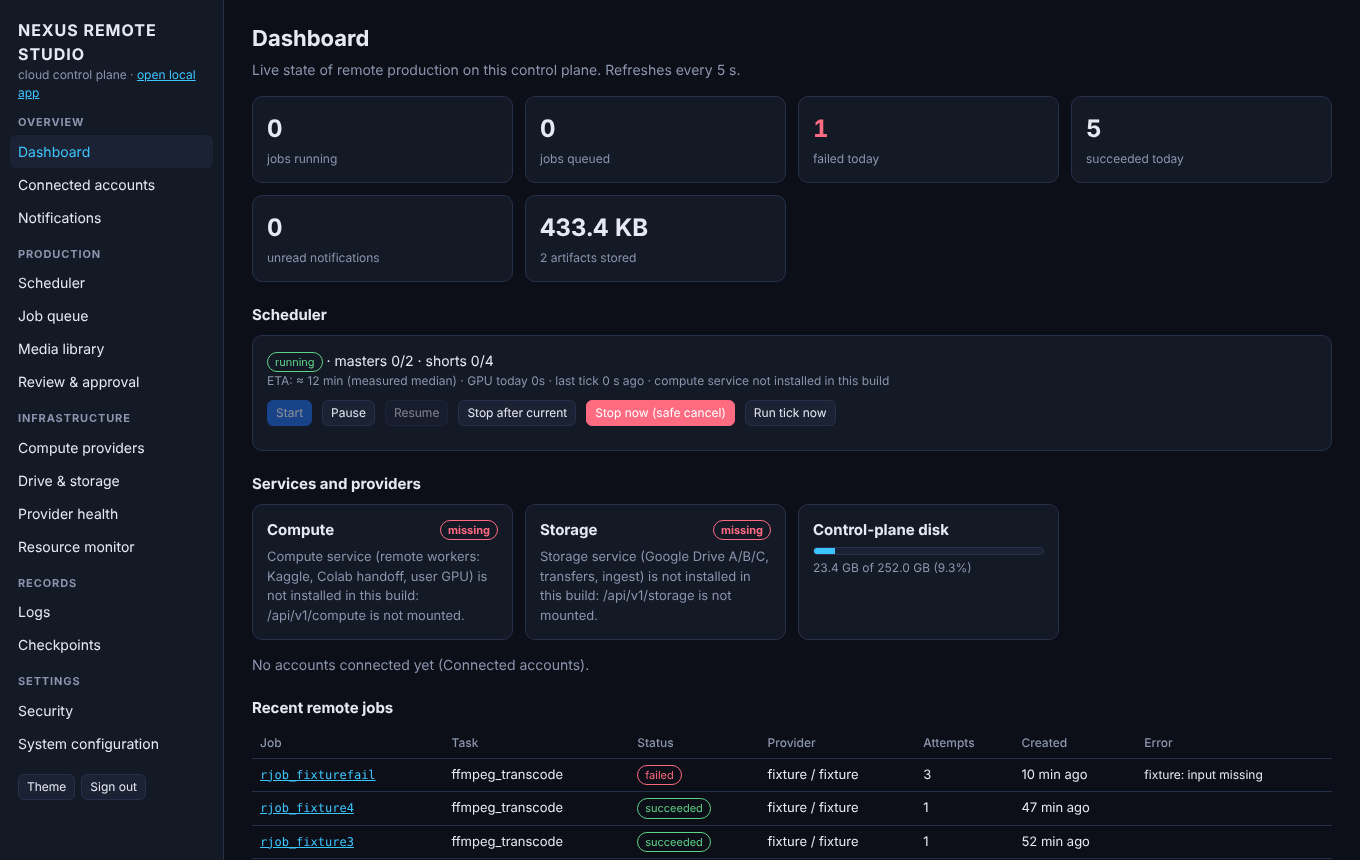
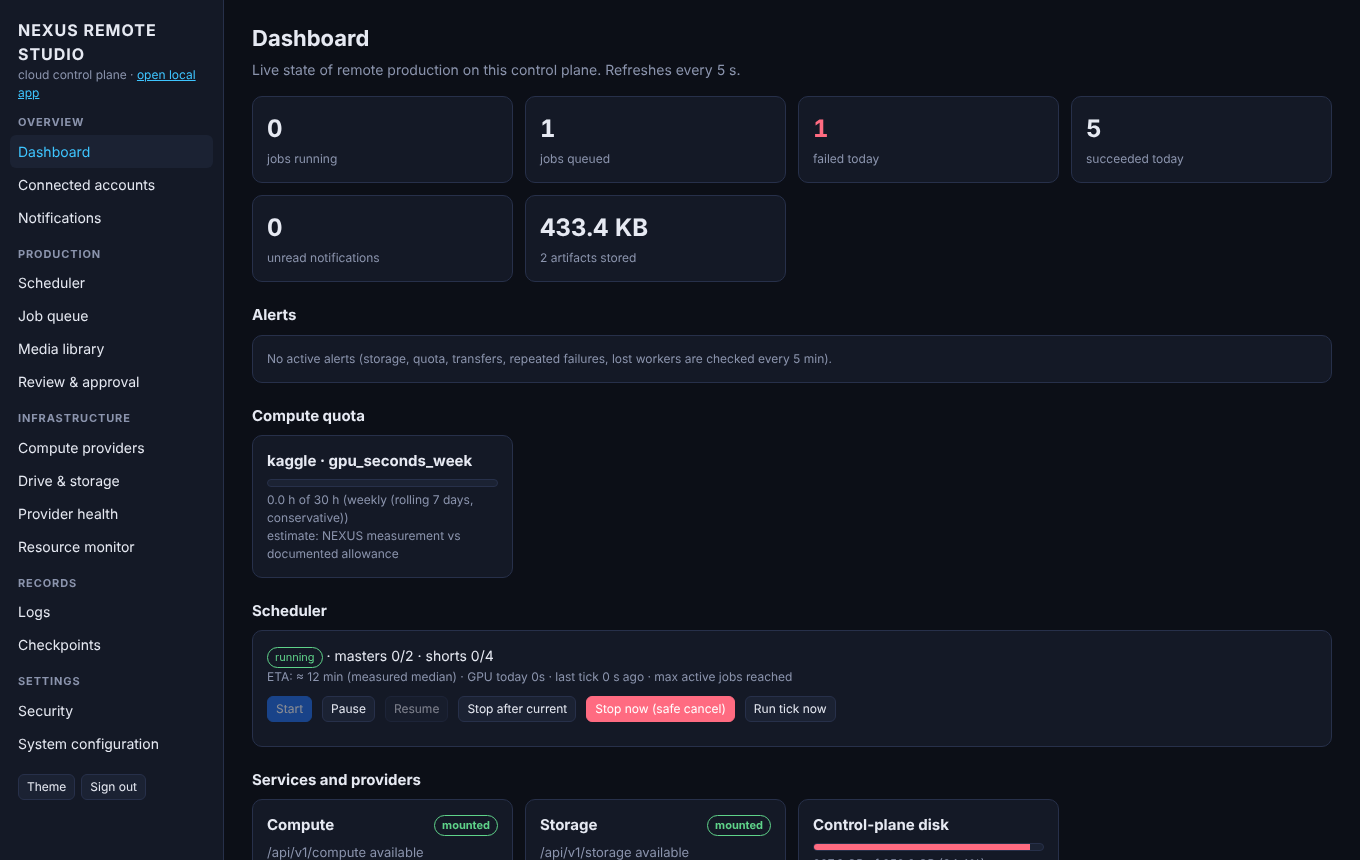
Studio alerts + GPU quota panels, resolved state alerts clear, disk figure = total-free; Account 3 handoff; acceptance A-K with capability classes
Claude-Session: https://claude.ai/code/session_01XFXUJS8XCrJyczxpPSo5M5

diff --git a/nexus/ui/studio.html b/nexus/ui/studio.html
@@ -132,9 +132,12 @@ function schedLine(s){const t=s.today||{};return `${st(s.status)}${s.pause_reaso
 function etaText(e){if(!e)return"-";if(e.remaining_s===0)return"today's target complete";if(e.remaining_s!=null)return"≈ "+dur(e.remaining_s)+" (measured median)";return e.note||"no history yet"}
 
 PAGES.dash=async()=>{const s=await api("/api/v1/studio/summary");unread=s.notifications_unread;const sc=s.scheduler;
+  const al=await api("/api/v1/alerts").catch(()=>({active:[]}));const qs=s.services.compute?await api("/api/v1/compute/quota").catch(()=>[]):[];
   return `<h2 class="page">Dashboard</h2><p class="lead">Live state of remote production on this control plane. Refreshes every 5 s.</p>
   <div class="grid">${statCard(s.jobs.running,"jobs running")}${statCard(s.jobs.queued,"jobs queued")}${statCard(s.jobs.failed_today,"failed today",s.jobs.failed_today?"badv":"")}
   ${statCard(s.jobs.succeeded_today,"succeeded today")}${statCard(s.notifications_unread,"unread notifications")}${statCard(fmtB(s.storage.artifact_bytes),s.storage.artifacts+" artifacts stored")}</div>
+  <h3 class="sec">Alerts</h3>${(al.active||[]).length?`<div class="card">${al.active.map(a=>`<div>${tag(a.key.split(":")[0],a.key.endsWith(":error")||a.key.startsWith("fails")||a.key.startsWith("transfer")?"bad":"warn")} ${esc(a.title)} <span class="small mute">${ago(a.last)}</span></div>`).join("")}</div>`:`<div class="card small mute">No active alerts (storage, quota, transfers, repeated failures, lost workers are checked every 5 min).</div>`}
+  ${qs.length?`<h3 class="sec">Compute quota</h3><div class="grid">${qs.map(q=>`<div class="card"><h3>${esc(q.provider)} · ${esc(q.resource)}</h3>${q.limit?`<div class="bar"><i class="${q.used/q.limit>0.9?"bad":q.used/q.limit>0.8?"warn":""}" style="width:${Math.min(100,100*(q.used||0)/q.limit)}%"></i></div><div class="small mute">${q.resource.includes("seconds")?((q.used||0)/3600).toFixed(1)+" h of "+(q.limit/3600).toFixed(0)+" h":q.resource.includes("bytes")?fmtB(q.used||0)+" of "+fmtB(q.limit):Math.round(q.used||0)+" of "+Math.round(q.limit)}${q.period?" ("+esc(q.period)+")":""}${q.exhausted?" "+tag("exhausted","bad"):""}</div>`:'<p class="small mute">no known limit</p>'}<div class="small mute">${q.source==="provider_api"?"provider-reported":"estimate: NEXUS measurement vs documented allowance"}</div></div>`).join("")}</div>`:""}
   <h3 class="sec">Scheduler</h3><div class="card"><div>${schedLine(sc)}</div><div class="small mute">ETA: ${esc(etaText(sc.eta))} · GPU today ${sc.gpu_seconds_today}s · last tick ${ago(sc.last_tick)}${sc.blocked?" · "+esc(sc.blocked):""}</div>
   ${sc.last_error&&sc.last_error!==sc.blocked?`<div class="note bad">${esc(sc.last_error)}</div>`:""}<div class="row">${schedButtons(sc.status)}</div></div>
   <h3 class="sec">Services and providers</h3><div class="grid">

diff --git a/nexus/cloud/alerts.py b/nexus/cloud/alerts.py
@@ -20,7 +20,12 @@ REPEAT_S = 6 * 3600
 FAILS_IN_DAY = 3
 
 
+STATE_PREFIXES = ("storage:", "quota:", "reauth:")  # conditions that can clear; events (transfer/fails/lost) just expire
+_seen: set[str] = set()
+
+
 def _once(key: str, level: str, title: str, body: str, now: float) -> dict | None:
+    _seen.add(key)
     db.execute("CREATE TABLE IF NOT EXISTS alert_state(key TEXT PRIMARY KEY, last REAL, title TEXT)")
     r = db.query("SELECT last FROM alert_state WHERE key=?", (key,))
     if r and now - (r[0]["last"] or 0) < REPEAT_S:
@@ -46,7 +51,8 @@ def _storage(now: float) -> list[dict]:
             continue
         try:  # fresh figure from the provider itself (Drive: about.storageQuota; local: real disk space)
             q = artifacts.provider(cid).quota().model_dump()
-        except Exception:  # noqa: BLE001
+        except Exception:  # noqa: BLE001 - unknown now: keep any existing alert for this connection
+            _seen.update(r["key"] for r in db.query("SELECT key FROM alert_state WHERE key LIKE ?", (f"storage:{cid}:%",)))
             continue
         used, limit = q.get("used"), q.get("limit")
         if used is None or not limit:
@@ -83,11 +89,8 @@ def _jobs(now: float) -> list[dict]:
 
 
 def _quota(now: float) -> list[dict]:
-    try:
-        from .compute import dispatcher
-        qs = dispatcher.quota_status()
-    except Exception:  # noqa: BLE001
-        return []
+    from .compute import dispatcher  # an error here propagates: check() then keeps existing quota alerts
+    qs = dispatcher.quota_status()
     out = []
     for q in qs:
         q = q.model_dump() if hasattr(q, "model_dump") else q
@@ -101,12 +104,19 @@ def _quota(now: float) -> list[dict]:
 
 def check(now: float | None = None) -> list[dict]:
     now = now or time.time()
-    fired = []
-    for fn in (_storage, _transfers, _jobs, _quota):
+    fired, ok = [], set()
+    _seen.clear()
+    for fn, prefixes in ((_storage, ("storage:", "reauth:")), (_transfers, ()), (_jobs, ()), (_quota, ("quota:",))):
         try:
             fired += [a for a in fn(now) if a]
+            ok.update(prefixes)
         except Exception:  # noqa: BLE001 - one broken check must not stop the others
             continue
+    # a state alert whose check ran cleanly and no longer holds is resolved: drop it so the dashboard shows only what is true now
+    for r in db.query("SELECT key FROM alert_state"):
+        k = r["key"]
+        if k.startswith(tuple(ok)) and k not in _seen:
+            db.execute("DELETE FROM alert_state WHERE key=?", (k,))
     return fired
 
 

diff --git a/tests/fast/test_cloud_security.py b/tests/fast/test_cloud_security.py
@@ -485,3 +485,27 @@ def test_alerts_fire_once_per_condition_and_label_estimates(home, monkeypatch):
     assert alerts.check(now=1_000_100.0) == []                       # same condition: no second notification
     assert any(n["title"].startswith("kaggle") for n in events.notifications())
     assert alerts.check(now=1_000_000.0 + alerts.REPEAT_S + 1)        # repeats after the quiet period while it lasts
+
+
+def test_resolved_state_alert_leaves_the_dashboard_but_kept_when_unknown(home, monkeypatch):
+    """A storage/quota alert that no longer holds disappears from `active()` on the next clean check; a check that
+    cannot read the figure (provider error) keeps the existing alert instead of declaring it resolved."""
+    from nexus.cloud import alerts
+    from nexus.contracts import QuotaStatus
+    import nexus.cloud.compute.dispatcher as d
+    hot = QuotaStatus(provider="kaggle", connection_id="kaggle_primary", resource="gpu_seconds_week", limit=1000, used=900,
+                      remaining=100, source="measured")
+    monkeypatch.setattr(d, "quota_status", lambda: [hot])
+    alerts.check(now=2_000_000.0)
+    assert any(a["key"].startswith("quota:kaggle") for a in alerts.active(now=2_000_001.0))
+
+    def broken():
+        raise RuntimeError("provider unreachable")
+    monkeypatch.setattr(d, "quota_status", broken)
+    alerts.check(now=2_000_010.0)
+    assert any(a["key"].startswith("quota:kaggle") for a in alerts.active(now=2_000_011.0))
+
+    cool = hot.model_copy(update={"used": 100, "remaining": 900})
+    monkeypatch.setattr(d, "quota_status", lambda: [cool])
+    alerts.check(now=2_000_020.0)
+    assert not any(a["key"].startswith("quota:kaggle") for a in alerts.active(now=2_000_021.0))

diff --git a/nexus/cloud/routes_studio.py b/nexus/cloud/routes_studio.py
@@ -113,7 +113,7 @@ def summary():
                      "succeeded_today": sum(v for k, v in today.items() if k in scheduler.TERMINAL_OK), "recent": recent},
             "providers": _connections(),
             "storage": {"artifacts": art["n"], "artifact_bytes": art["b"], "transfers": xfer,
-                        "disk": {"total": du.total, "used": du.used, "free": du.free, "path": "NEXUS_HOME"}},
+                        "disk": {"total": du.total, "used": du.total - du.free, "free": du.free, "path": "NEXUS_HOME"}},  # used = total-free: what can still be written
             "notifications_unread": _rows("SELECT COUNT(*) n FROM notifications WHERE read = 0")[0]["n"],
             "scheduler": snap,
             "services": {"compute": "routes_compute" not in missing, "storage": "routes_storage" not in missing,
@@ -173,7 +173,7 @@ def resources():
         remote.append({**r, "accelerator": res.get("accelerator"), "duration_s": res.get("duration_s"), "metrics": res.get("metrics") or {}})
     return {"host": {"cpu_percent": psutil.cpu_percent(interval=0.2), "cpus": psutil.cpu_count(), "load_avg": load,
                      "ram": {"total": vm.total, "used": vm.total - vm.available, "percent": vm.percent},
-                     "disk": {"total": du.total, "used": du.used, "free": du.free, "percent": du.percent},
+                     "disk": {"total": du.total, "used": du.total - du.free, "free": du.free, "percent": round(100 * (du.total - du.free) / du.total, 1)},
                      "process_rss": proc.memory_info().rss, "uptime_s": round(time.time() - psutil.boot_time())},
             "remote_workers": remote, "measured_at": time.time()}
 

diff --git a/docs/ACCOUNT1_HANDOFF_TO_ACCOUNT3.md b/docs/ACCOUNT1_HANDOFF_TO_ACCOUNT3.md
@@ -1,0 +1,129 @@
+# Account 1 → Account 3: integration handoff (research, translation, localization, publishing, analytics, AI providers)
+
+Read `docs/ACCOUNT1_HANDOFF_TO_ACCOUNT2.md` first: it holds the shared parts (contracts list, API routes, env vars,
+test commands, file ownership). This file covers what is specific to Account 3, with example payloads, error shapes
+and checkpoint rules. The same examples apply to Account 2 (swap the task names).
+
+**Branch:** `work/account-1-cloud-platform` (PR #4, draft, based on PR #3; nothing merged into `main`). Start from its
+head (`NEXUS_STATE.json` → `git.head`).
+
+## 1. What Account 1 gives you
+| You need | Use | Status |
+|---|---|---|
+| Run a task on a GPU / remote worker | `ProductionJobManifest/v1` → dispatcher | real-verified (Kaggle T4) |
+| Read a source file stored in Drive without downloading to the owner's PC | `inputs: [artifact_id]`; the control plane fetches it into its cache, large inputs travel as a private Kaggle dataset | real-verified (Demo E, 49.9 MB) |
+| Write results to a chosen Drive account | `output_destination: "drive_b"` or the storage rules by kind | real-verified (Demo E) |
+| Declare an AI provider (translation, TTS, LLM...) | `AIProviderCapability/v1` | contract only: Account 3 implements the providers |
+| Events / notifications | `nexus.cloud.events.emit(...)` / `notify(...)` | real |
+| Secrets (API keys for your providers) | `nexus.vault.put/get` (encrypted, outside Git) | real |
+
+## 2. Example payloads
+
+### Submit (POST `/api/v1/compute/jobs`, or `dispatcher.submit(ProductionJobManifest(...))`)
+```json
+{
+  "contract": "ProductionJobManifest/v1",
+  "task": "translate_subtitles",
+  "owner_account": "account3",
+  "project_id": "proj_demo",
+  "params": {"target_lang": "ar", "glossary": "default"},
+  "inputs": ["art_3f2a9c0d1e77"],
+  "output_destination": "drive_b",
+  "requires": {"gpu": false, "providers": ["local", "kaggle"]},
+  "priority": 4,
+  "max_runtime_s": 1800,
+  "max_retries": 2,
+  "idempotency_key": "proj_demo:translate:art_3f2a9c0d1e77:ar"
+}
+```
+Answer (`200`): `{"job_id": "rjob_...", "status": "queued", "created": true}`. The same `idempotency_key`
+returns the existing job (`created: false`) and never starts a second run.
+
+### Result (GET `/api/v1/compute/jobs/{id}` → `result`)
+```json
+{
+  "contract": "WorkerExecutionResult/v1",
+  "job_id": "rjob_be153ebe2736",
+  "provider": "kaggle", "connection_id": "kaggle_primary",
+  "status": "succeeded",
+  "duration_s": 312.4, "accelerator": "Tesla T4",
+  "metrics": {"encode_s": 72.6, "realtime_factor": 16.0},
+  "artifacts": [{"contract": "ArtifactManifest/v1", "artifact_id": "art_...", "kind": "master", "name": "output.mp4",
+                 "mime": "video/mp4", "size": 144587842, "sha256": "…", "produced_by_job": "rjob_be153ebe2736",
+                 "locations": [{"connection_id": "drive_b", "ref": "…", "verified": true}]}],
+  "log_tail": "(redacted, last lines)",
+  "error": null,
+  "checkpoint": null
+}
+```
+When `output_destination` is set, `data.delivery` in the job record lists each artifact copied there, or the reason
+it failed (a failed delivery never deletes the local copy).
+
+### Declare an AI provider (Account 3)
+```json
+{
+  "contract": "AIProviderCapability/v1",
+  "provider": "local-whisper", "connection_id": "local",
+  "tasks": ["transcribe", "translate_subtitles"],
+  "models": ["whisper-small"],
+  "local": true,
+  "commercial_use": "unverified",
+  "quotas": []
+}
+```
+Rules: `commercial_use` stays `unverified` until you have checked the licence; a cloud provider's quota uses
+`QuotaStatus/v1` with `source` `provider_api` only if the provider reports the number, otherwise `measured`/`documented`
+(the UI labels these as estimates).
+
+## 3. Error structures
+| Where | Shape | Meaning |
+|---|---|---|
+| HTTP API | `{"detail": "<message>"}` with 401/403 (not owner, missing CSRF), 404 (unknown id), 409 (conflict, e.g. provider not ready), 422 (manifest invalid: extra field, bad priority), 502 (provider error, message redacted) | FastAPI standard |
+| Job record | `status` ∈ `queued`, `running`, `succeeded`, `failed`, `cancelled`, `quota_exhausted`; `error` holds the latest reason (also while waiting, e.g. `waiting for a provider: kaggle: [quota_exhausted] ...`) | the job is never silently dropped |
+| Worker result | `WorkerExecutionResult.status` ∈ `succeeded`, `failed`, `cancelled`, `lost`, `quota_exhausted`; `error` text; `log_tail` redacted | `lost` = no result from the worker: re-dispatched from the last checkpoint |
+| Events | `ProductionEvent/v1` types `job.failed`, `worker.lost`, `storage.failed`, `quota.exhausted` ... with `data` | stream: `GET /api/v1/events?job_id=` |
+
+Retries: a failed attempt is retried up to `max_retries`; `quota_exhausted` does not consume retries, it waits. Paid
+compute is never chosen automatically; a job whose `requires.providers` lists only unavailable providers waits with a
+reason (safe production mode).
+
+## 4. Checkpoint rules (worker tasks)
+1. Call `ctx.checkpoint(step, state)` after every expensive, deterministic step; `state` must be JSON and small
+   (guideline: a few KiB; not enforced): store paths/indices, not data. Large intermediates go out as `ctx.artifact(path, kind="checkpoint")`.
+2. On re-dispatch the bundle carries the last `JobCheckpoint/v1`; the task reads `ctx.resume_state` (its `state`) and
+   `ctx.last_checkpoint` (`step`, `seq`, `artifacts`), and skips work already done (Demo D: chunks 1-2 skipped, 3-4 run).
+3. `seq` only grows; never rewrite a past checkpoint. A task without checkpoints restarts from zero, so register it
+   with `resumable=False`.
+4. Steps must be idempotent: re-running the step after the last checkpoint must give the same output.
+5. Outputs are trusted only after the control plane re-computes their SHA-256 (one mismatch fails the attempt and nothing
+   from it is recorded).
+
+## 5. Publishing and ingestion (Account 3 specific)
+- Publishing to platforms stays **manual approval** until the owner authorises each platform's OAuth; Account 1 has
+  no platform credentials and must not get them through chat.
+- Media ingestion accepts direct https file URLs with declared rights, or uploads; platform page URLs (YouTube, TikTok,
+  Instagram, Facebook, X, Vimeo) are refused by design. Use the platform's creator export for the owner's own videos.
+
+## 6. Capability classification (Account 1, at handoff)
+Legend: **RV** real-verified · **MO** mocks/fake-server only · **P** partial · **BU** blocked by user · **BP** blocked by
+provider · **NI** not implemented.
+
+| Capability | Class | Note |
+|---|---|---|
+| Kaggle GPU submit/status/output, checksums, idempotency | RV | 2× T4, NVENC |
+| Worker-loss + control-plane-crash resume from checkpoint | RV | Demo D |
+| Large input via private Kaggle dataset | RV | Demo E |
+| Drive device flow, identity, encrypted refresh token, refresh | RV | 3 accounts |
+| Drive A/B/C isolation | RV | B cannot see A's file |
+| Drive resumable upload with interruption + resume, sha256, download, move, delete | RV | |
+| Drive disconnect + token revocation | MO | real revoke forces the owner to reconnect; tested on the fake server |
+| Drive backup/restore of NEXUS state | P | `nexus/backup.py` backup/restore + drill tested locally; not yet run against real Drive |
+| Storage router (rules, failover, replication, reserve) | P | logic tested; real failover between Drives not forced |
+| Storage + quota alerts, resolved alerts clear | RV | live on dev host |
+| Scheduler + safe production mode | RV | real Kaggle jobs |
+| Real Kaggle quota-exhaustion message | BP | detection pattern-based, not yet seen |
+| Owner GPU PC / Colab pull worker | P | API tested; no real remote machine attached (BU) |
+| Permanent HTTPS host | BU | recommendation: Tailscale Funnel on an owner machine |
+| OAuth consent screen in production mode | BU | Testing mode: refresh tokens expire after 7 days |
+| AI providers (translation, TTS, LLM) | NI | Account 3 |
+| Platform publishing | NI | Account 3, manual approval |

diff --git a/docs/ACCOUNT1_ACCEPTANCE_RESULTS.md b/docs/ACCOUNT1_ACCEPTANCE_RESULTS.md
@@ -1,20 +1,24 @@
 # Account 1 acceptance results (2026-11-12)
 
-Status per demo: **Done** (run for real, evidence linked) · **Done (local stand-in)** (real run, but a part that needs the
-owner was replaced by a local equivalent) · **Blocked on owner** (built and tested, cannot finish without the owner).
+Classes: **RV** real-verified · **MO** mocks/fake-server only · **P** partial · **BU** blocked by user · **BP** blocked by
+provider · **NI** not implemented. Finalization mission (Parts 1-12), demos A-K.
 
-| Demo | Status | Evidence |
-|---|---|---|
-| A. Browser startup from a clean environment | **Done** (dev host). A fresh NEXUS_HOME, the real app under uvicorn, Chromium: login, all 15 Studio sections, scheduler controls, mobile width; no page errors. The owner's PC installs nothing. A *permanent* host is not chosen yet (owner decision). | `tests/e2e/test_studio_browser.py`, `docs/results/account1/studio_*.png`, `studio_e2e.json` |
-| B. Three Drive connections | **Blocked on owner.** OAuth web + device flows, 3 isolated connections, refresh rotation, revocation, quota, folders, resumable upload with crash recovery and checksum are implemented and tested over real HTTP against a protocol-faithful fake Google server (95 tests). Real Google needs the owner's OAuth client and consent in a browser. | `tests/fast/test_cloud_storage.py`, `docs/results/account1/storage_resume.json`, `tests/live/test_drive_live.py` (owner-gated) |
-| C. Kaggle (one account), real GPU task, verified artifact | **Done.** Private kernels via the official CLI; 2× Tesla T4 (15 GB each), 31 GB RAM; probe 23.9 TFLOPS fp16; NVENC transcode of a 10 s clip to 1280×720 in 1.8 s; every artifact's SHA-256 re-computed and matched. Also submitted through the running app's HTTP API with the background poller; idempotent re-submission returns the same job. | `kaggle_probe.json`, `kaggle_transcode.json`, `lead_demos.json` (`demo_C_api_probe`) |
-| D. Remote job: progress, logs, interrupt, resume from checkpoint | **Done.** (1) Worker interruption: chunked_transcode stopped after 2 of 4 chunks, re-dispatched with checkpoint 2, finished only chunks 3-4. (2) Control-plane crash: API process SIGKILLed 7 s after dispatching a 6-chunk NVENC job on a NASA clip, down 25 s; after restart the dispatcher re-attached to the same Kaggle run (attempt 1, no duplicate GPU run) and the job succeeded; output 1280×720, 242.4 s, checksum matched locally. | `kaggle_resume.json`, `lead_demos.json` (`demo_D_control_plane_crash`) |
-| E. Cloud media flow (Drive → remote → Drive, no full-res download to the PC) | **Done (local stand-in) / Blocked on owner for Drive.** Source fetched by the Kaggle worker directly from an authorised https URL (NASA), processed on the GPU, result stored server-side (`NEXUS_HOME/compute/artifacts`); the browser only receives thumbnails/metadata unless the owner clicks play (Range stream). The Drive source/destination legs need Demo B. | `lead_demos.json`, Studio library screenshot |
-| F. Scheduler: daily target, pause/resume, quota exhaustion | **Done.** Target 1 master + 1 short (demo plan = real Kaggle probe jobs): start (ETA from measured median), pause (no new dispatch for 100 s), simulated quota exhaustion (allowance setting below measured usage) → resume refused, paused with reason "quota", warning notification, no account switching; restore → resume → stop condition reached → stopped. | `lead_demos.json` (`demo_F_scheduler`), `tests/fast/test_scheduler.py` |
-| G. URL ingestion | **Done.** NASA public-domain clip via https: redirect followed and re-validated, ffprobe-verified (h264+aac, 242.4 s), SHA-256, provenance, stored; duplicate detected on re-import. SSRF suite with the real resolver: 34/34 refused (private IPs via public DNS names, numeric tricks, metadata hosts, platform pages). | `ingest_live.json`, `ingest_ssrf_live.json`, `tests/fast/test_ingest.py` |
+| Demo | Class | What was run | Evidence |
+|---|---|---|---|
+| A. Stable HTTPS URL for the Studio | **BU** | App runs and the browser E2E passes on the dev host; a permanent host needs the owner (recommended: owner machine + Tailscale Funnel, zero cost). Nothing deployed publicly. | `ACCOUNT1_PROVIDER_COMPARISON.md` §2.1, `tests/e2e/test_studio_browser.py` |
+| B. Real Google Drive A/B/C | **RV** (revoke: **MO**) | Device flow on three real accounts, identity, encrypted refresh tokens, forced refresh, folders, resumable upload interrupted + resumed, sha256, download, move, delete; B cannot see A's file. Real revocation not run (would force the owner to reconnect). | `storage_drive_live.json`, `storage_drive_live_isolation.json` |
+| C. Kaggle GPU, one account | **RV** | Private kernels, 2× T4, probe + NVENC transcode, checksums, idempotent re-submit. | `kaggle_probe.json`, `kaggle_transcode.json`, `lead_demos.json` |
+| D. Interrupt + resume from checkpoint | **RV** | Worker stopped after 2/4 chunks, resumed at chunk 3. | `kaggle_resume.json` |
+| E. Drive → remote GPU → Drive, no PC download | **RV** | Drive A source (49.9 MB) → private Kaggle dataset → T4 NVENC (16× realtime) → Drive B `NEXUS/OriginalMedia/`; 144,587,842 bytes, sha256 matched after re-download. Job `rjob_be153ebe2736`. | `lead_demos.json`, Studio library |
+| F. Control-plane crash recovery | **RV** | API SIGKILLed during a 6-chunk job; after restart it re-attached to the same Kaggle run (no duplicate GPU run). | `lead_demos.json` (`demo_D_control_plane_crash`) |
+| G. Scheduler daily target, pause/resume/stop | **RV** | Real probe jobs; ETA from measured median; stop condition reached. | `lead_demos.json` (`demo_F_scheduler`) |
+| H. Quota exhaustion → safe pause | **P** / **BP** | Simulated exhaustion pauses safely with reason; GPU jobs wait queued (safe production mode, attempts 0) with no account switching. A real Kaggle quota message has not been seen. | `test_scheduler.py`, `test_cloud_compute.py` |
+| I. Secure link ingestion | **RV** | Authorised https source, redirect re-validated, ffprobe, sha256, provenance; SSRF 34/34 refused; platform pages refused. | `ingest_live.json`, `ingest_ssrf_live.json` |
+| J. Browser-only operation + observability | **RV** (dev host) | Studio: jobs, storage, alerts (storage threshold, quota labelled as estimate), GPU quota bar; alerts clear when resolved. | `tests/e2e/test_studio_browser.py`, `GET /api/v1/alerts` |
+| K. CI green on the newest commit | see PR #4 checks | Linux + Windows + windows-e2e; tests never start background workers (`conftest.py`), production startup still does. | GitHub Actions on PR #4 |
 
 ## Tests
-- Fast suite (all four sub-agents integrated): **392 passed, 4 skipped** (`NEXUS_SCHEDULER_THREAD=0 pytest tests/fast`).
+- Fast suite: **399 passed, 4 skipped** (`NEXUS_SCHEDULER_THREAD=0 pytest tests/fast`), ruff clean.
 - Real browser E2E of the Studio: passed. Security recovery checks: 7/7. Secret scan (tracked files): clean.
 - Live Kaggle evidence: probe, transcode, worker-loss resume, control-plane-crash resume, scheduler run.
 
@@ -38,5 +42,6 @@ owner was replaced by a local equivalent) · **Blocked on owner** (built and tes
 | 26 | Browser end-to-end | `tests/e2e/test_studio_browser.py` |
 
 ## Not complete (stated plainly)
-Real Google Drive (B, and the Drive legs of E), a permanent public host, a real owner-GPU/Colab pull worker, and a real
-Kaggle quota-exhaustion message have not been exercised. Each needs the owner (or real quota exhaustion).
+A permanent public host (owner decision), real Drive token revocation and Drive backup/restore runs, a real owner-GPU/Colab
+pull worker, and a real Kaggle quota-exhaustion message have not been exercised. OAuth consent is still in Testing mode
+(refresh tokens expire after 7 days until the owner publishes it).

diff --git a/docs/ACCOUNT1_HANDOFF_TO_ACCOUNT2.md b/docs/ACCOUNT1_HANDOFF_TO_ACCOUNT2.md
@@ -90,15 +90,16 @@ Secrets (Kaggle token, Google OAuth client, refresh tokens, worker-token hashes)
 ## 6. Test commands
 ```bash
 python -m ruff check .
-NEXUS_SCHEDULER_THREAD=0 python -m pytest -q tests/fast          # 392 passed, 4 skipped at handoff
+NEXUS_SCHEDULER_THREAD=0 python -m pytest -q tests/fast          # 399 passed, 4 skipped at handoff
 python -m pytest -q tests/e2e/test_studio_browser.py            # real Chromium run of the Studio
 NEXUS_LIVE=1 python -m pytest -q tests/live/test_kaggle_live.py  # needs the Kaggle token in the vault (uses GPU quota)
 python scripts/release_check.py                                 # fresh clone + hygiene + lint + fast suite
 ```
 
 ## 7. Known limitations (honest)
-- Google Drive: built and tested against a protocol-faithful fake server only; real Drive needs the owner's OAuth client
-  and consent (Demo B/E). Uploads through the API are synchronous (not yet durable jobs).
+- Google Drive: real-verified on three accounts (device flow, refresh, isolation, resumable upload, Demo E). Real token
+  revocation and Drive backup/restore are tested on the fake server only. Uploads through the API are synchronous.
+  OAuth consent is in Testing mode until the owner publishes it (refresh tokens expire after 7 days).
 - Kaggle weekly GPU allowance is a documented default (30 h) the owner can override; usage is measured by NEXUS.
   Quota-error detection is pattern-based and has not yet seen a real Kaggle quota message.
 - Cancel cannot stop a running Kaggle kernel (no official CLI command); it stops polling and never starts further steps.
@@ -112,4 +113,5 @@ python scripts/release_check.py                                 # fresh clone + 
   write outputs as artifacts; set the scheduler plan to these names. Start with Wan 2.1 1.3B on the T4.
 - **Account 3:** declare AI providers with `AIProviderCapability/v1`; implement `translate`, `publish_*` tasks the same
   way; publishing must stay manual-approval until the owner authorises platform OAuth.
-- **Owner:** Google OAuth client + Drive A/B/C consent; choose a host; rotate the Kaggle token that was pasted in chat.
+- **Owner:** publish the OAuth consent screen; choose a host; rotate the Kaggle tokens that were pasted in chat; back up the vault key.
+- Account 3 specifics (payload examples, error shapes, checkpoint rules, capability classes): `docs/ACCOUNT1_HANDOFF_TO_ACCOUNT3.md`.

diff --git a/docs/ACCOUNT1_EXECUTION_REPORT.md b/docs/ACCOUNT1_EXECUTION_REPORT.md
@@ -38,5 +38,18 @@ session branches exist. Working tree clean. The new branch `work/account-1-cloud
 GPU: Tesla T4 ×2, 15 GB each, 23.9 TFLOPS fp16 / 4.1 fp32 matmul; NVENC 5.6× realtime at 720p; Kaggle round trip
 ~95 s for a tiny job (queue + boot dominate). GPU seconds used this session: about 290 of an assumed 108,000/week.
 
+## Finalization (Parts 1-12)
+- CI blocker: tests started an embedded worker thread that claimed jobs (Linux + Windows failures); `tests/fast/conftest.py`
+  now disables background workers for tests, production startup still starts them. A follow-up test bug (wrong submit
+  result key) was caught by CI and fixed.
+- Real Google Drive on three owner accounts (device flow); Demo E ran fully in the cloud (Drive A → Kaggle T4 → Drive B).
+- Storage router: rules by media kind, failover, replication of masters, reserve; nothing deleted automatically.
+- Alerts (Part 8): storage thresholds, reauth, failed transfers, repeated failures, lost workers, quota (estimates labelled);
+  resolved state alerts clear. Studio dashboard shows alerts and the GPU quota bar. Dashboard disk figure now uses
+  total-free (the container's writable allowance), matching the storage alert.
+- Safe production mode: GPU jobs wait queued with a reason until an authorised GPU worker exists; no paid fallback.
+- Hosting: recommendation only (owner machine + Tailscale Funnel); nothing deployed.
+
 ## Owner actions outstanding
-Rotate both Kaggle tokens pasted in chat; Google OAuth client + Drive A/B/C consent; choose a host; back up the vault key.
+Rotate both Kaggle tokens pasted in chat (vault command in the setup guide); publish the Google OAuth consent screen to
+production; choose a host; back up the vault key.
